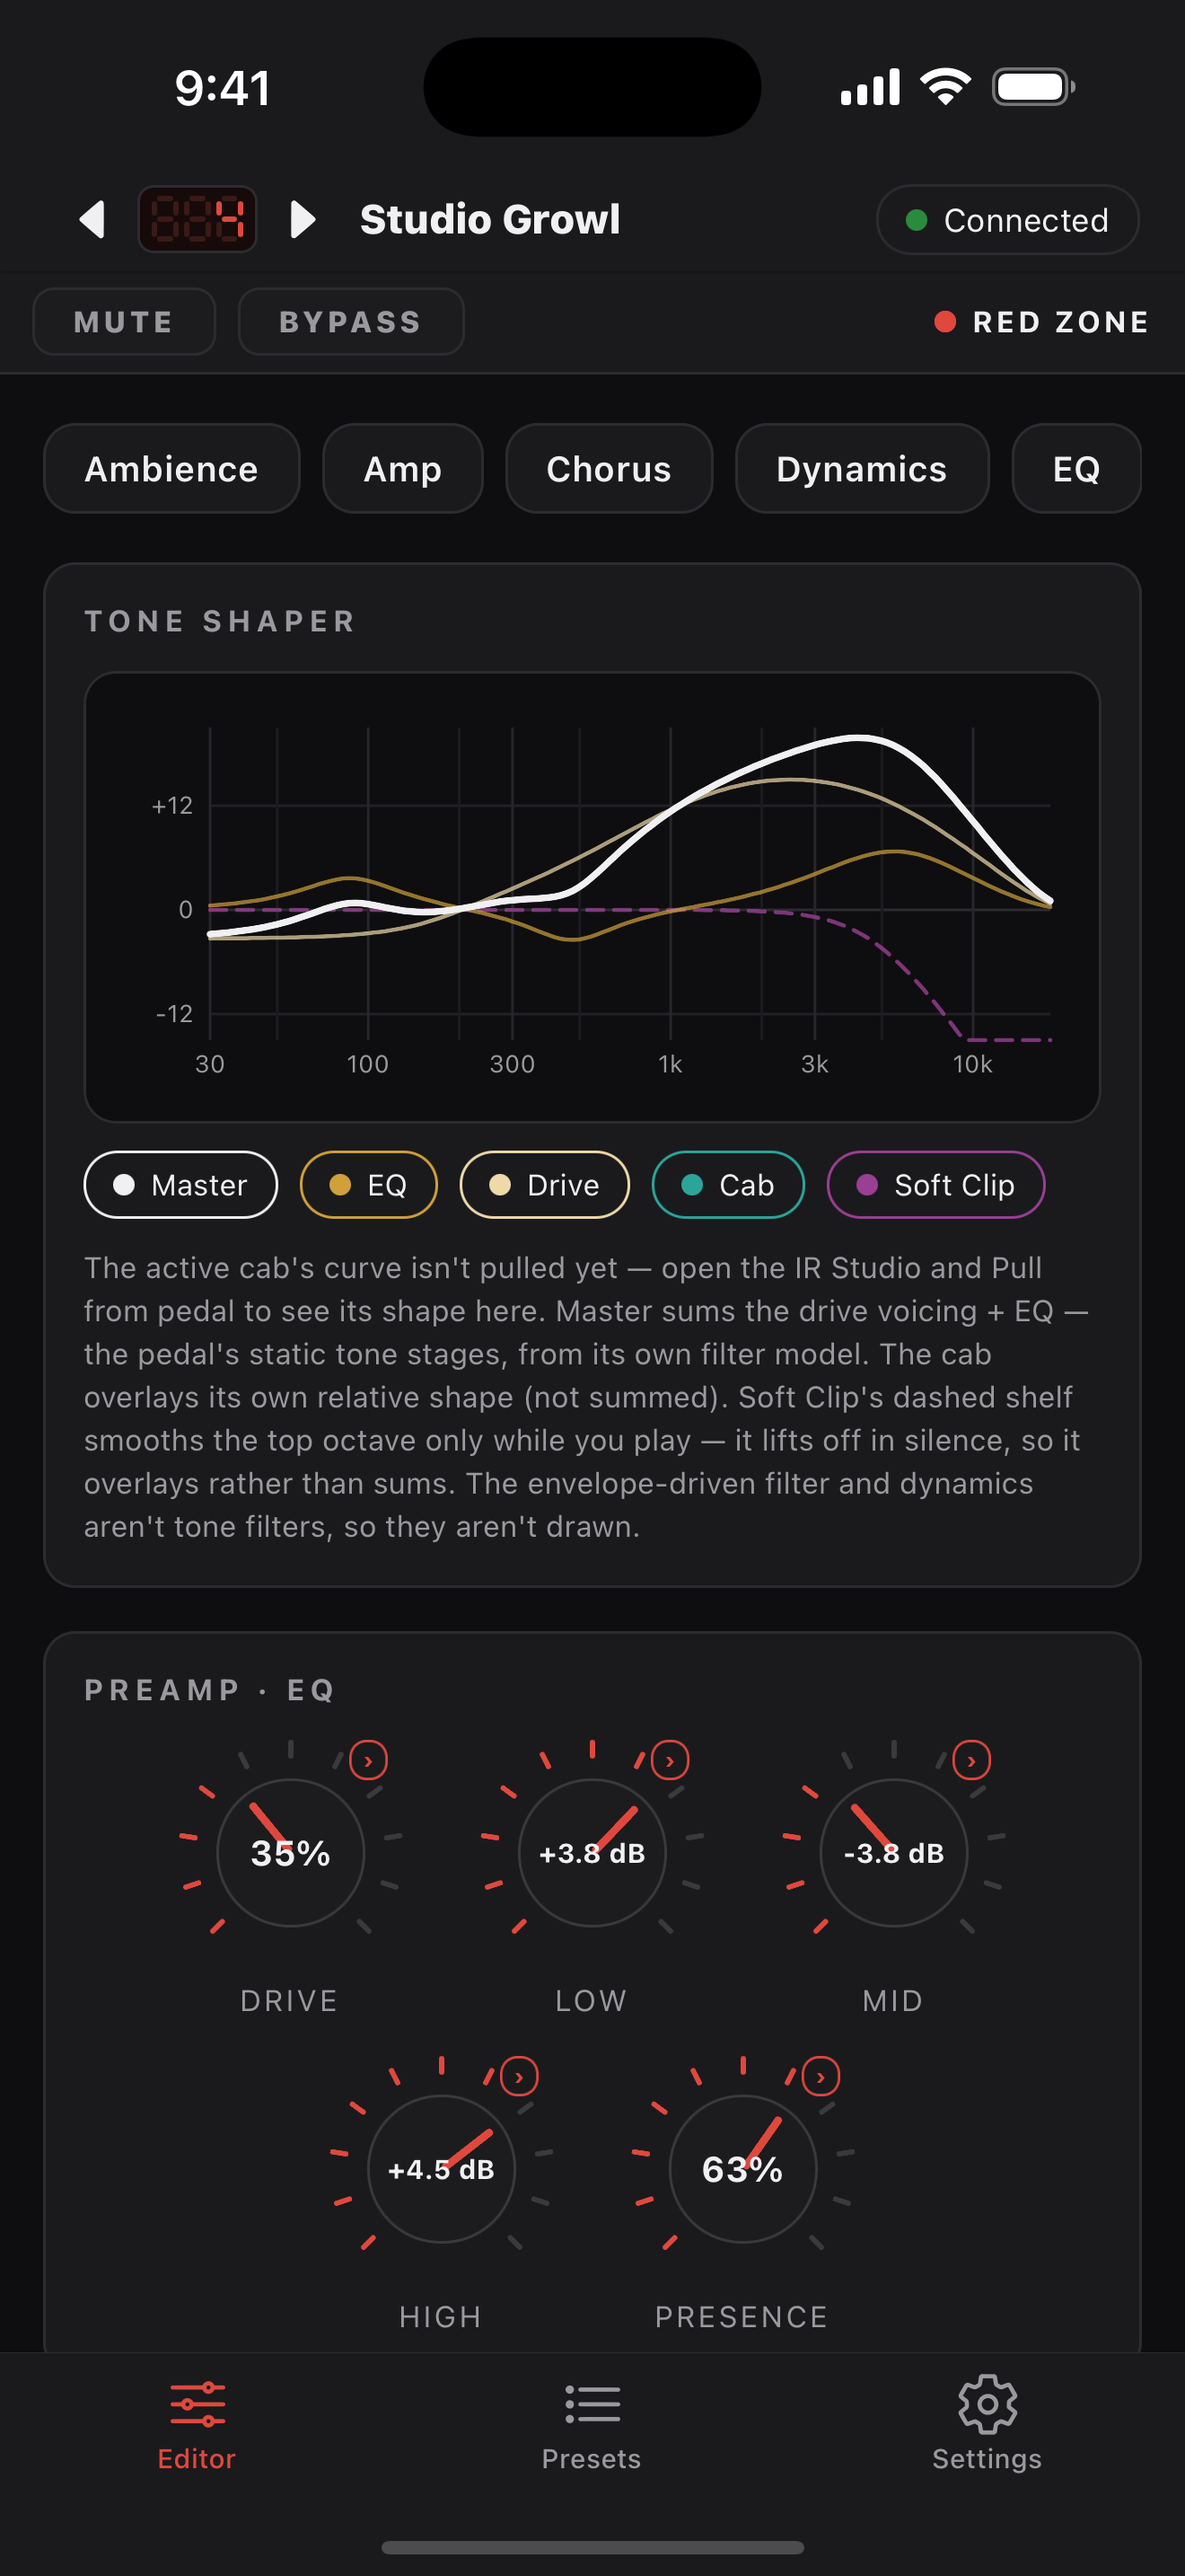
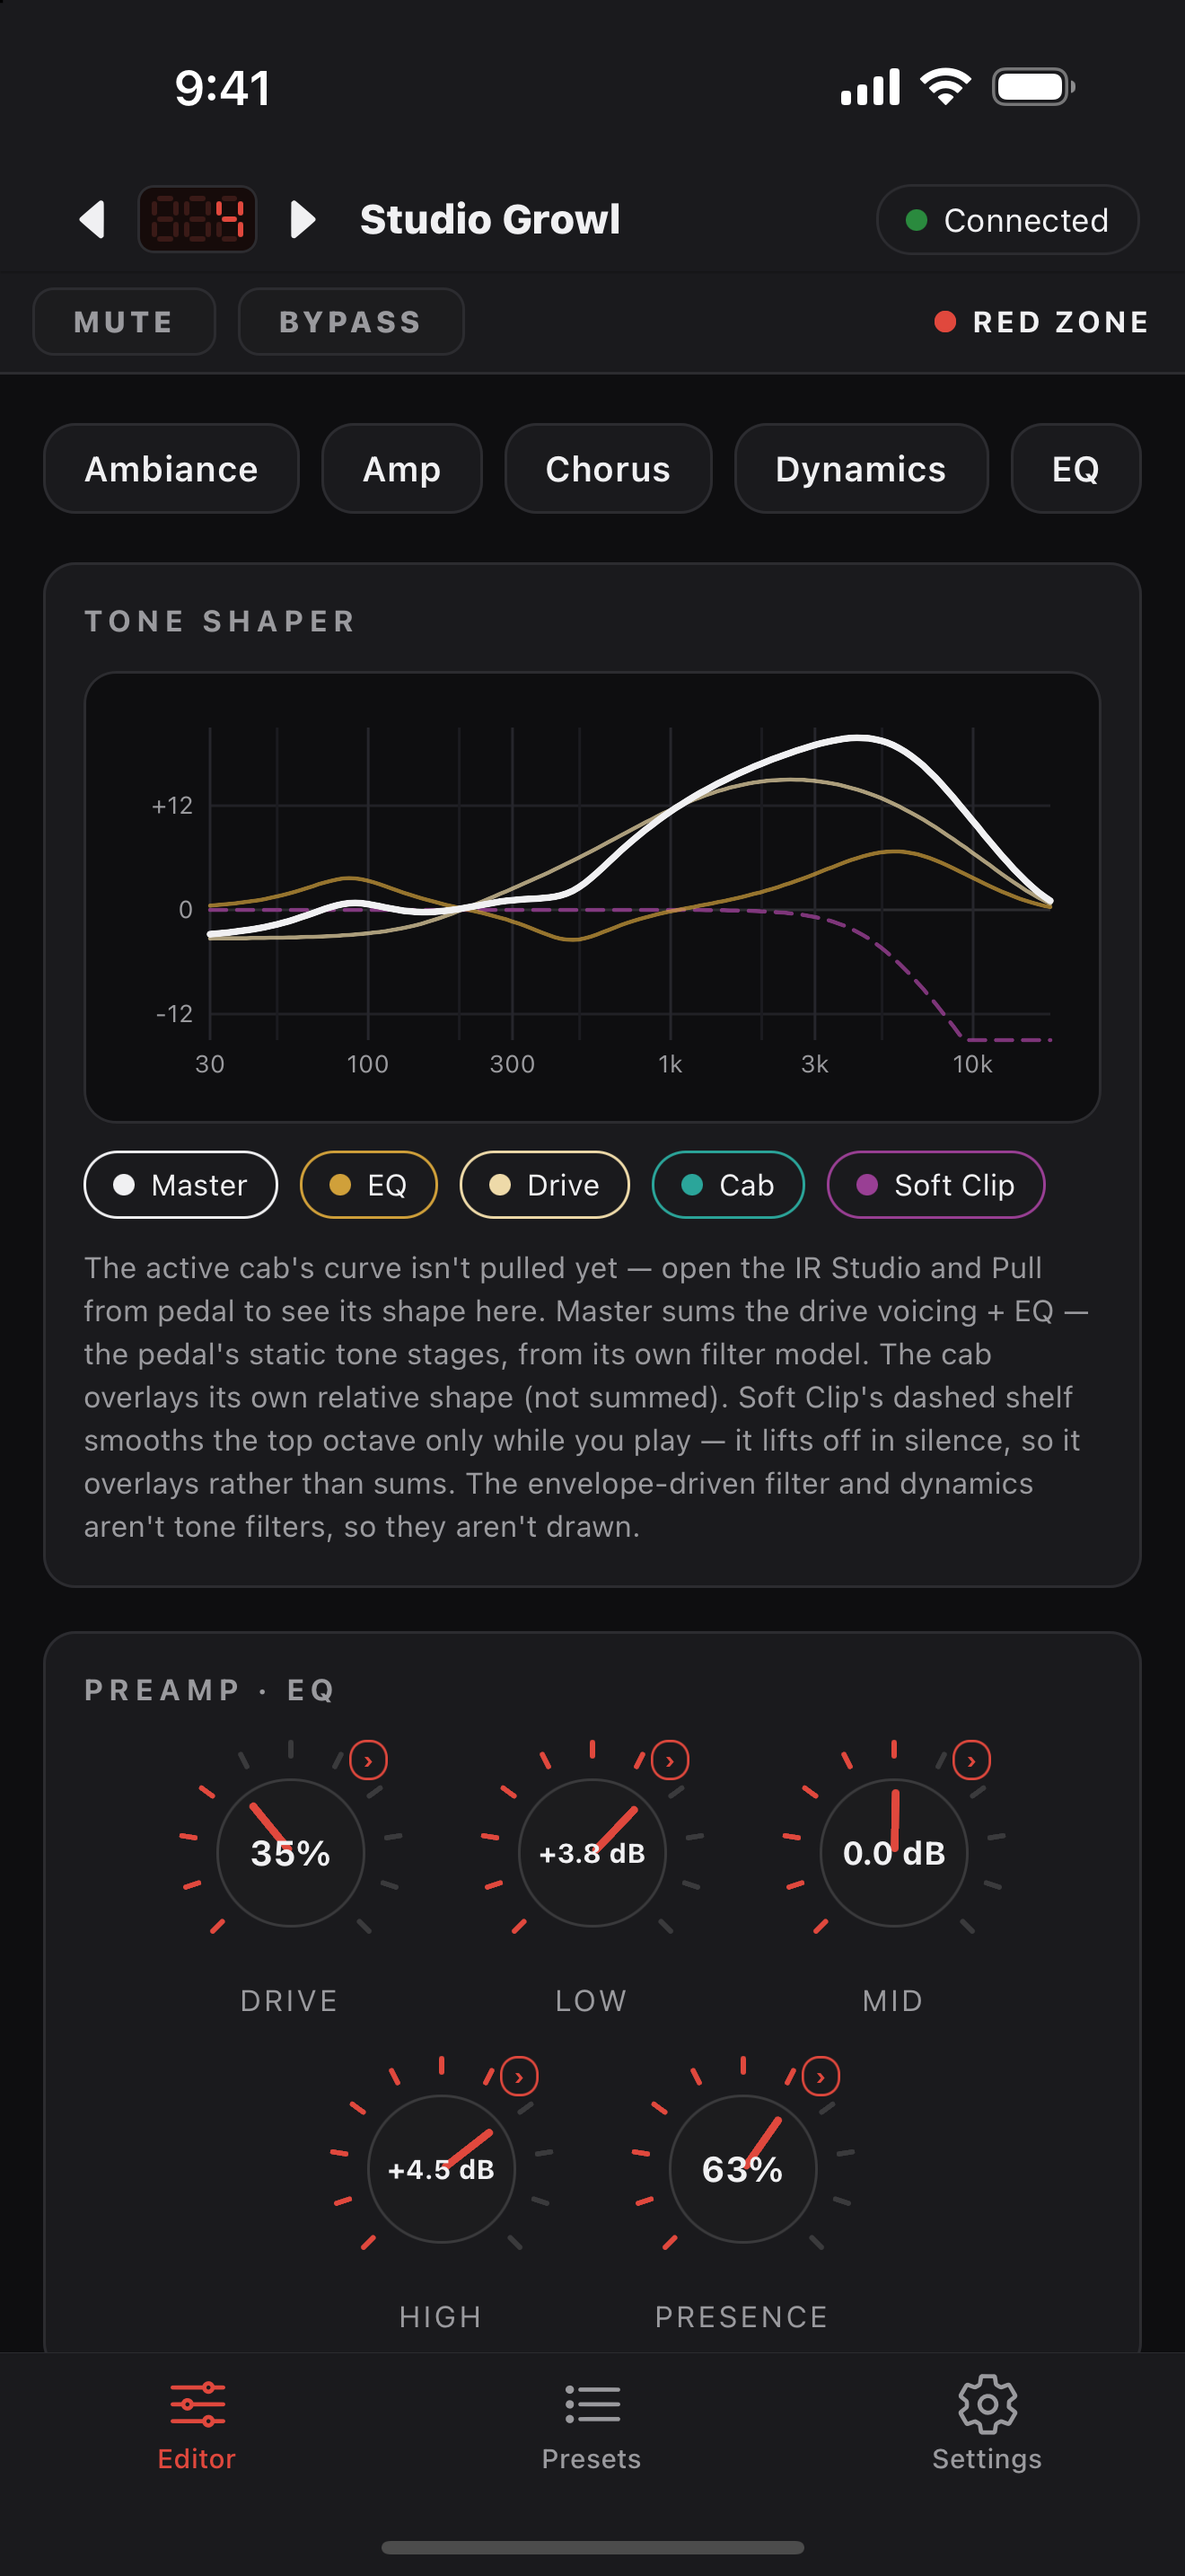
1.3.0 store listing: What's New, description, promo text, screenshots (#140)
- What's New: add the panel Mid/Freq/Q line (with the PEDAL KNOB tag) and the
  pedal-knob-marks-edited fix (#136); the IR rows now carry the stored cab's name;
  mention USB-C alongside Bluetooth MIDI.
- Description: a "stay in sync with the pedal" bullet; USB-C as a first-class
  connection. Promo text: "over Bluetooth MIDI or USB-C".
- Screenshots regenerated from 07700c2 (build 20). The Amp shot shows the badge.
- tools/screenshots.ts: a missing Simulator.app no longer aborts the run; capture
  works headless via simctl.

All of this is already uploaded to the 1.3.0 version in App Store Connect.

Changed region(s): [[0.3417, 0.0, 0.6523, 0.0621], [0.7144, 0.6827, 0.7765, 0.7448]]

diff --git a/tools/screenshots.ts b/tools/screenshots.ts
@@ -52,7 +52,13 @@ async function main() {
     // already booted
   }
   simctl("bootstatus", udid, "-b");
-  execFileSync("open", ["-a", "Simulator"]);
+  // The window is only for watching; capture goes through `simctl io` and works headless. Some Xcode
+  // installs ship without Simulator.app, so a missing window must not abort the run.
+  try {
+    execFileSync("open", ["-a", "Simulator"], { stdio: "ignore" });
+  } catch {
+    console.log("Simulator.app not found — continuing headless.");
+  }
 
   if (process.argv.includes("--build")) {
     console.log("Building Release app for the simulator (slow)…");
